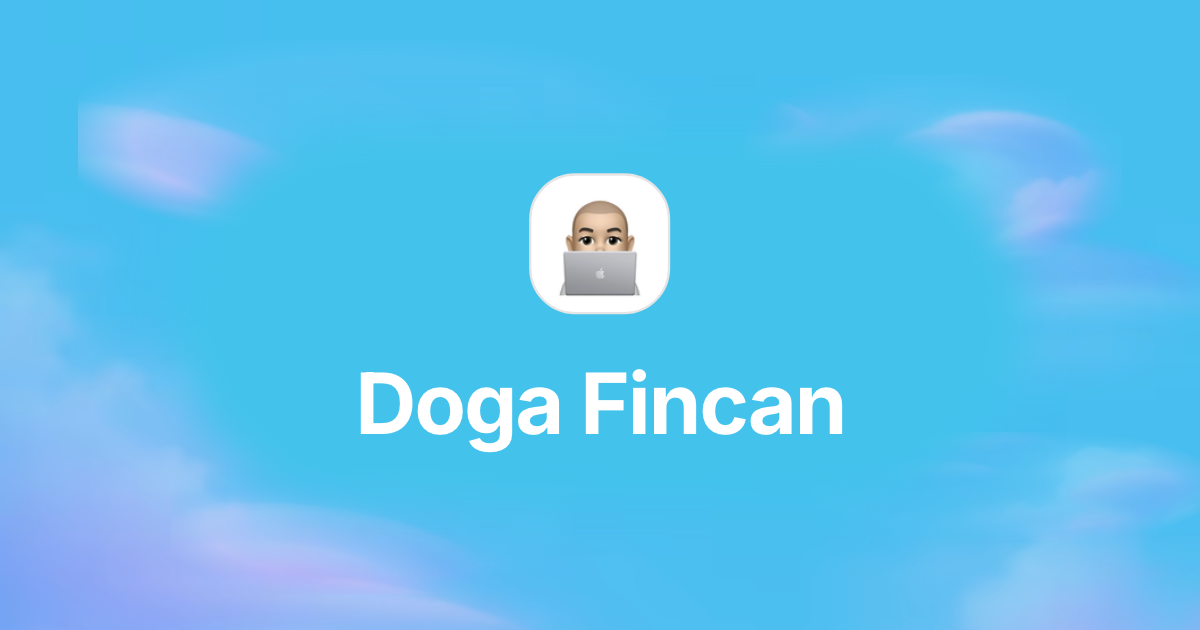
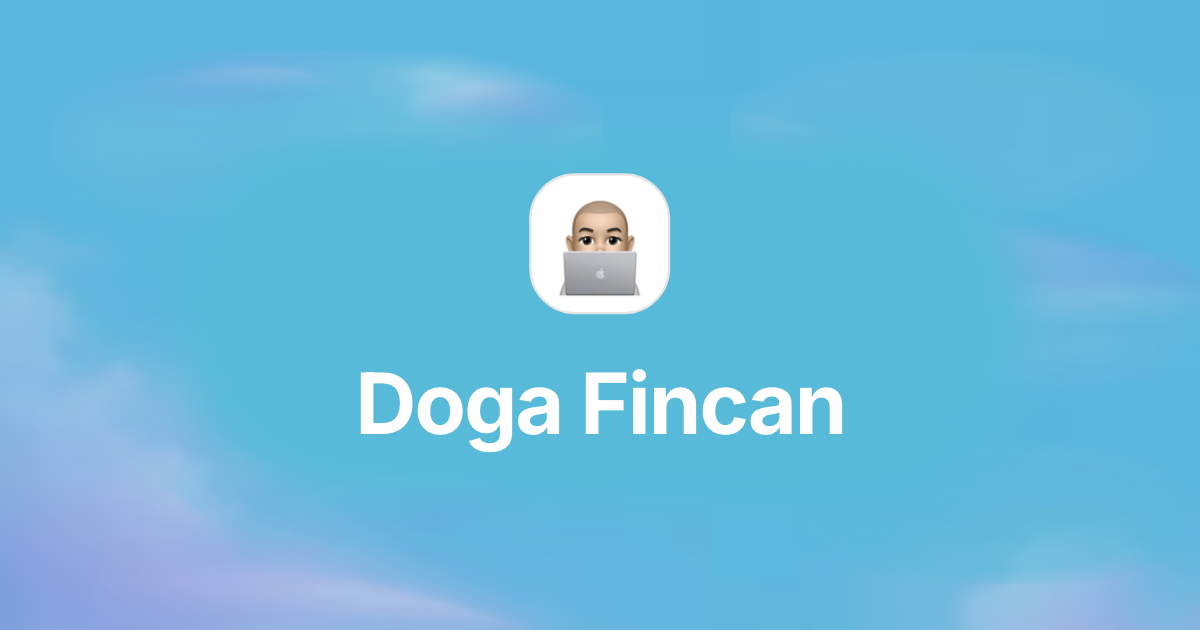
Add static OG image and refine background art

diff --git a/src/styles.test.ts b/src/styles.test.ts
@@ -31,7 +31,7 @@ describe("global styles", () => {
     const darkMedia = styles.slice(darkMediaStart, styles.indexOf("\n}\n\n@layer", darkMediaStart));
 
     expect(styles.match(/--portfolio-app-chrome-color:/g)).toHaveLength(3);
-    expect(lightRoot).toContain("--portfolio-app-chrome-color: #43c3ec;");
+    expect(lightRoot).toContain("--portfolio-app-chrome-color: #58bad9;");
     expect(lightRoot).toContain(
       "--portfolio-header-cloud-image: var(--portfolio-page-atmosphere-image);",
     );
@@ -41,14 +41,14 @@ describe("global styles", () => {
     expect(lightRoot).toContain("--portfolio-header-cloud-size: 240% auto;");
     expect(lightRoot).toContain('--portfolio-page-atmosphere-image: url("/page-atmosphere.avif");');
     expect(lightRoot).toContain("--portfolio-page-atmosphere-size: 180% auto;");
-    expect(darkClass).toContain("--portfolio-app-chrome-color: #2fa9d1;");
+    expect(darkClass).toContain("--portfolio-app-chrome-color: #428fa8;");
     expect(darkClass).toContain(
       '--portfolio-page-atmosphere-image: url("/page-atmosphere-dark.png");',
     );
     expect(darkClass).toContain(
       "--portfolio-header-cloud-image: var(--portfolio-page-atmosphere-image);",
     );
-    expect(darkMedia).toContain("--portfolio-app-chrome-color: #2fa9d1;");
+    expect(darkMedia).toContain("--portfolio-app-chrome-color: #428fa8;");
     expect(darkMedia).toContain(
       '--portfolio-page-atmosphere-image: url("/page-atmosphere-dark.png");',
     );
@@ -77,8 +77,8 @@ describe("global styles", () => {
     expect(htmlBlock).toContain("background: var(--portfolio-app-chrome-color);");
     expect(htmlBlock).not.toContain("background: var(--portfolio-page-background);");
     expect(bodyBlock).toContain("background: var(--portfolio-page-background);");
-    expect(styles.match(/--portfolio-app-chrome-color: #43c3ec;/g)).toHaveLength(1);
-    expect(styles.match(/--portfolio-app-chrome-color: #2fa9d1;/g)).toHaveLength(2);
+    expect(styles.match(/--portfolio-app-chrome-color: #58bad9;/g)).toHaveLength(1);
+    expect(styles.match(/--portfolio-app-chrome-color: #428fa8;/g)).toHaveLength(2);
   });
 
   it("defines softened iMessage-blue primary button colors for light and dark schemes", () => {
@@ -208,15 +208,18 @@ describe("global styles", () => {
     expect(styles).toContain("--portfolio-header-clearance-width: 28rem;");
     expect(styles).toContain("--portfolio-header-clearance-height: 14rem;");
     expect(styles).toContain("--portfolio-header-clearance-feather: 2.75rem;");
+    expect(styles).toContain(
+      "--portfolio-header-clearance-color: var(--portfolio-app-chrome-color);",
+    );
     expect(clearanceStart).toBeGreaterThan(-1);
     expect(clearanceLayer).toContain("z-index: -1;");
     expect(clearanceLayer).toContain("display: none;");
     expect(clearanceLayer).toContain("width: min(var(--portfolio-header-clearance-width), 74vw);");
     expect(clearanceLayer).toContain("height: var(--portfolio-header-clearance-height);");
-    expect(clearanceLayer).toContain("background: var(--portfolio-page-background);");
+    expect(clearanceLayer).toContain("background: var(--portfolio-header-clearance-color);");
     expect(clearanceLayer).toContain("box-shadow: 0 0 var(--portfolio-header-clearance-feather)");
     expect(clearanceLayer).toContain(
-      "var(--portfolio-header-clearance-feather) var(--portfolio-page-background);",
+      "var(--portfolio-header-clearance-feather) var(--portfolio-header-clearance-color);",
     );
   });
 

diff --git a/src/styles.css b/src/styles.css
@@ -87,15 +87,16 @@
   --sidebar-accent-foreground: oklch(0.205 0 0);
   --sidebar-border: oklch(0.922 0 0);
   --sidebar-ring: oklch(0.708 0 0);
-  --portfolio-app-chrome-color: #43c3ec;
+  --portfolio-app-chrome-color: #58bad9;
   --portfolio-page-background: var(--portfolio-app-chrome-color);
+  --portfolio-header-clearance-color: var(--portfolio-app-chrome-color);
   --portfolio-header-cloud-image: var(--portfolio-page-atmosphere-image);
   --portfolio-header-cloud-height: 80svh;
   --portfolio-header-cloud-position-x: center;
   --portfolio-header-cloud-position-y: -5rem;
   --portfolio-header-cloud-size: 240% auto;
   --portfolio-page-atmosphere-image: url("/page-atmosphere.avif");
-  --portfolio-page-atmosphere-opacity: 0.72;
+  --portfolio-page-atmosphere-opacity: 1;
   --portfolio-page-atmosphere-position: center top;
   --portfolio-page-atmosphere-size: 180% auto;
   --portfolio-header-clearance-width: 28rem;
@@ -144,9 +145,11 @@
   --sidebar-accent-foreground: oklch(0.985 0 0);
   --sidebar-border: oklch(1 0 0 / 10%);
   --sidebar-ring: oklch(0.556 0 0);
-  --portfolio-app-chrome-color: #2fa9d1;
+  --portfolio-app-chrome-color: #428fa8;
   --portfolio-page-background: var(--portfolio-app-chrome-color);
+  --portfolio-header-clearance-color: var(--portfolio-app-chrome-color);
   --portfolio-page-atmosphere-image: url("/page-atmosphere-dark.png");
+  --portfolio-page-atmosphere-opacity: 1;
   --portfolio-header-cloud-image: var(--portfolio-page-atmosphere-image);
 }
 
@@ -191,9 +194,11 @@
     --sidebar-accent-foreground: oklch(0.985 0 0);
     --sidebar-border: oklch(1 0 0 / 10%);
     --sidebar-ring: oklch(0.556 0 0);
-    --portfolio-app-chrome-color: #2fa9d1;
+    --portfolio-app-chrome-color: #428fa8;
     --portfolio-page-background: var(--portfolio-app-chrome-color);
+    --portfolio-header-clearance-color: var(--portfolio-app-chrome-color);
     --portfolio-page-atmosphere-image: url("/page-atmosphere-dark.png");
+    --portfolio-page-atmosphere-opacity: 1;
     --portfolio-header-cloud-image: var(--portfolio-page-atmosphere-image);
   }
 }
@@ -205,17 +210,19 @@
     --portfolio-header-cloud-position-x: center;
     --portfolio-header-cloud-position-y: -6rem;
     --portfolio-header-cloud-size: cover;
-    --portfolio-page-atmosphere-opacity: 0.8;
+    --portfolio-page-atmosphere-opacity: 1;
     --portfolio-page-atmosphere-size: 100% auto;
   }
   .dark {
     --portfolio-header-cloud-image: url("/header-clouds-dark.png");
+    --portfolio-page-atmosphere-opacity: 1;
   }
 }
 
 @media (prefers-color-scheme: dark) and (min-width: 640px) {
   :root {
     --portfolio-header-cloud-image: url("/header-clouds-dark.png");
+    --portfolio-page-atmosphere-opacity: 1;
   }
 }
 
@@ -291,9 +298,9 @@
     transform: translateX(-50%);
     border-radius: 999px;
     pointer-events: none;
-    background: var(--portfolio-page-background);
+    background: var(--portfolio-header-clearance-color);
     box-shadow: 0 0 var(--portfolio-header-clearance-feather)
-      var(--portfolio-header-clearance-feather) var(--portfolio-page-background);
+      var(--portfolio-header-clearance-feather) var(--portfolio-header-clearance-color);
   }
 
   code {

diff --git a/src/routes/-__root.test.ts b/src/routes/-__root.test.ts
@@ -18,8 +18,8 @@ describe("RootDocument head", () => {
     const source = readFileSync(new URL("./__root.tsx", import.meta.url), "utf8");
     const manifest = readFileSync(new URL("../../public/manifest.json", import.meta.url), "utf8");
 
-    expect(source).toContain('const APP_CHROME_COLOR = "#43C3EC";');
-    expect(source).toContain('const APP_CHROME_COLOR_DARK = "#2FA9D1";');
+    expect(source).toContain('const APP_CHROME_COLOR = "#58BAD9";');
+    expect(source).toContain('const APP_CHROME_COLOR_DARK = "#428FA8";');
     expect(source).toContain(
       'import interLatinWghtNormal from "@fontsource-variable/inter/files/inter-latin-wght-normal.woff2?url";',
     );
@@ -45,8 +45,8 @@ describe("RootDocument head", () => {
     expect(source).not.toContain("favicon-dark");
     expect(manifest).toContain('"/android-chrome-192x192.png"');
     expect(manifest).toContain('"/android-chrome-512x512.png"');
-    expect(manifest).toContain('"theme_color": "#43C3EC"');
-    expect(manifest).toContain('"background_color": "#43C3EC"');
+    expect(manifest).toContain('"theme_color": "#58BAD9"');
+    expect(manifest).toContain('"background_color": "#58BAD9"');
     expect(readPngSize("../../public/app-logo-120.png")).toEqual({ width: 120, height: 120 });
     expect(readPngSize("../../public/apple-touch-icon.png")).toEqual({ width: 180, height: 180 });
     expect(readPngSize("../../public/android-chrome-192x192.png")).toEqual({

diff --git a/src/components/og-image-preview.tsx b/src/components/og-image-preview.tsx
@@ -6,6 +6,7 @@ const PAGE_BACKGROUND = "var(--portfolio-page-background)";
 const CLOUD_IMAGE = "var(--portfolio-header-cloud-image)";
 const ATMOSPHERE_IMAGE = "var(--portfolio-page-atmosphere-image)";
 const CLEARANCE_FEATHER = "var(--portfolio-header-clearance-feather)";
+const CLEARANCE_COLOR = "var(--portfolio-header-clearance-color)";
 
 const CLOUD_MASK = "radial-gradient(ellipse at center, black 0%, black 58%, transparent 78%)";
 
@@ -54,7 +55,7 @@ export function OgImagePreview({ seed, title }: { seed: string; title: string })
           backgroundImage: ATMOSPHERE_IMAGE,
           backgroundPosition: "center top",
           backgroundSize: "100% auto",
-          opacity: 0.64,
+          opacity: 1,
         }}
       />
       {cloudLayers.map((layer, index) => (
@@ -64,8 +65,8 @@ export function OgImagePreview({ seed, title }: { seed: string; title: string })
         aria-hidden="true"
         className="absolute top-1/2 left-1/2 z-10 h-[18rem] w-[48rem] -translate-x-1/2 -translate-y-1/2 rounded-full"
         style={{
-          background: PAGE_BACKGROUND,
-          boxShadow: `0 0 ${CLEARANCE_FEATHER} ${CLEARANCE_FEATHER} ${PAGE_BACKGROUND}`,
+          background: CLEARANCE_COLOR,
+          boxShadow: `0 0 ${CLEARANCE_FEATHER} ${CLEARANCE_FEATHER} ${CLEARANCE_COLOR}`,
         }}
       />
       <AppHeader className="relative z-20 origin-center scale-[2.35]" title={title} />

diff --git a/src/routes/-index.test.ts b/src/routes/-index.test.ts
@@ -45,7 +45,7 @@ describe("index route head", () => {
     expect(siteUrlMatch?.[1]).toBe("https://dogafincan.com");
     expect(socialImageMatch?.[1]).toMatch(/^\/og\.png\?v=\d+$/);
     expect(new URL(`${siteUrlMatch?.[1]}${socialImageMatch?.[1]}`).href).toBe(
-      "https://dogafincan.com/og.png?v=2026060101",
+      "https://dogafincan.com/og.png?v=2026060201",
     );
     expect(source).not.toContain("portfolio.dogafincan.workers.dev");
     expect(source).not.toContain('const SOCIAL_IMAGE = "/og.png";');

diff --git a/src/routes/__root.tsx b/src/routes/__root.tsx
@@ -4,8 +4,8 @@ import { HeadContent, Scripts, createRootRoute } from "@tanstack/react-router";
 import interLatinWghtNormal from "@fontsource-variable/inter/files/inter-latin-wght-normal.woff2?url";
 import appCss from "../styles.css?url";
 
-const APP_CHROME_COLOR = "#43C3EC";
-const APP_CHROME_COLOR_DARK = "#2FA9D1";
+const APP_CHROME_COLOR = "#58BAD9";
+const APP_CHROME_COLOR_DARK = "#428FA8";
 
 export const Route = createRootRoute({
   head: () => ({

diff --git a/src/routes/index.tsx b/src/routes/index.tsx
@@ -4,7 +4,7 @@ const PAGE_TITLE = "Doga Fincan";
 const PAGE_DESCRIPTION =
   "I'm into learning languages, nutrition and exercise, and building cool things. Reach out if you're building something interesting.";
 const SITE_URL = "https://dogafincan.com";
-const SOCIAL_IMAGE = `${SITE_URL}/og.png?v=2026060101`;
+const SOCIAL_IMAGE = `${SITE_URL}/og.png?v=2026060201`;
 
 export const Route = createFileRoute("/")({
   head: () => ({

diff --git a/DESIGN.md b/DESIGN.md
@@ -129,12 +129,12 @@ layout.
   background.
 - Header title, subtitle, and profile/social icons should use solid white
   without opacity, text shadows, drop shadows, or text strokes.
-- The light-mode app chrome color should be bright, clean light blue `#43C3EC`.
+- The light-mode app chrome color should be muted, clean light blue `#58BAD9`.
   Use it for the page background, browser safe-area/chrome color, root `html`
   and `body` backgrounds, and light `theme-color` meta entries unless a project
   records a specific install-color exception.
-- Dark mode should use a separate, slightly deeper blue app chrome color
-  (`#2FA9D1` in the current shared implementation) for the same safe-area,
+- Dark mode should use a separate, muted, slightly deeper blue app chrome color
+  (`#428FA8` in the current shared implementation) for the same safe-area,
   page-background, and `theme-color` surfaces. This keeps the blue chrome close
   to the dark workbench without turning the page into a dark gradient.
 - Treat the cloud field as app identity. Prefer dedicated decorative image
@@ -149,6 +149,9 @@ layout.
   should preserve the same project-specific cloud type, composition, and
   sparseness as light mode while using less bright blue, purple, lavender, and
   pale-blue colors.
+- The checked-in cloud assets should carry the muted treatment directly. Avoid
+  adding CSS saturation, brightness, or opacity filters as the primary way to
+  dim the artwork; regenerate the raster assets and keep the CSS layers neutral.
 - Treat the header cloud asset as the primary desktop identity graphic. It
   should span the viewport horizontally and cover roughly the upper 80% of the
   initial viewport, leaving the bottom portion to return toward the base blue.
@@ -168,17 +171,17 @@ layout.
   in light and dark mode. On mobile, the page-atmosphere image should still add
   subtle cloud texture around the header without requiring a separate
   header-cloud layer. If clearance is added behind the identity stack on
-  desktop, it should blend into the base chrome color and avoid a symmetrical
-  circular or halo-shaped hole; the composition should feel like clouds
-  naturally passing around the identity, with small side clouds close enough to
-  the logo/title to keep the header alive.
+  desktop, it should use the same muted chrome token as the page background and
+  avoid an undimmed circular or halo-shaped hole; the composition should feel
+  like clouds naturally passing around the identity, with small side clouds close
+  enough to the logo/title to keep the header alive.
 - The repeatable atmosphere can add lower density wisps around the workbench
   sides on both desktop and mobile.
-- Both cloud images should preserve `#43C3EC` at their top and bottom edges so
+- Both cloud images should preserve `#58BAD9` at their top and bottom edges so
   the UI does not become a full multicolor gradient and the repeated atmosphere
   layer does not show obvious seams. The blue remains the base canvas.
 - The top 5% of the initial viewport should read as clear blue with little or no
-  cloud texture. The bottom 20% should also return clearly to `#43C3EC`. Cloud
+  cloud texture. The bottom 20% should also return clearly to `#58BAD9`. Cloud
   density should decrease toward the bottom of the image.
 - Decorative cloud images should stay soft, abstract, airy, and non-literal.
   Suitable inspirations include cirrus, altocumulus, stratocumulus, lenticular,
@@ -195,9 +198,9 @@ layout.
 
 Implementation guidance:
 
-- Set `html` and `body` backgrounds to `#43C3EC`.
-- Keep light `theme-color` and install background colors on `#43C3EC`; add a
-  dark `theme-color` matching `#2FA9D1` or the repo's documented dark chrome
+- Set `html` and `body` backgrounds to `#58BAD9`.
+- Keep light `theme-color` and install background colors on `#58BAD9`; add a
+  dark `theme-color` matching `#428FA8` or the repo's documented dark chrome
   blue so mobile safe areas match the dark cloud base.
 - Render the desktop header cloud image and repeatable page-atmosphere image as
   decorative non-interactive layers. A CSS `body::before` image layer is
@@ -212,17 +215,17 @@ Implementation guidance:
   the narrow mobile strips beside the workbench. It may use a larger
   `background-size` on mobile and `repeat-y` for long pages.
 - Do not add a fixed bottom fade above the repeatable atmosphere layer. Keep the
-  root and page backgrounds on `#43C3EC` so browser safe areas and the lower
+  root and page backgrounds on `#58BAD9` so browser safe areas and the lower
   viewport edge use the base chrome color directly.
 - Use `pointer-events: none` on decorative layers and keep page content above
   them.
 - When enforcing header readability, prefer image positioning and a
-  chrome-color clearance layer over changing the logo, title, social buttons, or
-  workbench. Verify the result in desktop and mobile, light and dark mode.
+  muted chrome-color clearance layer over changing the logo, title, social
+  buttons, or workbench. Verify the result in desktop and mobile, light and dark mode.
 - Do not recreate or extend the cloud shapes with CSS radial gradients, blurred
   blobs, or code-generated mesh layers. Use raster image assets as the
   atmospheric sources.
-- Keep the page background behind the images as `#43C3EC`, and fade/mask the
+- Keep the page background behind the images as `#58BAD9`, and fade/mask the
   header image edges if needed to avoid visible seams.
 
 ## Portfolio Product Shape
